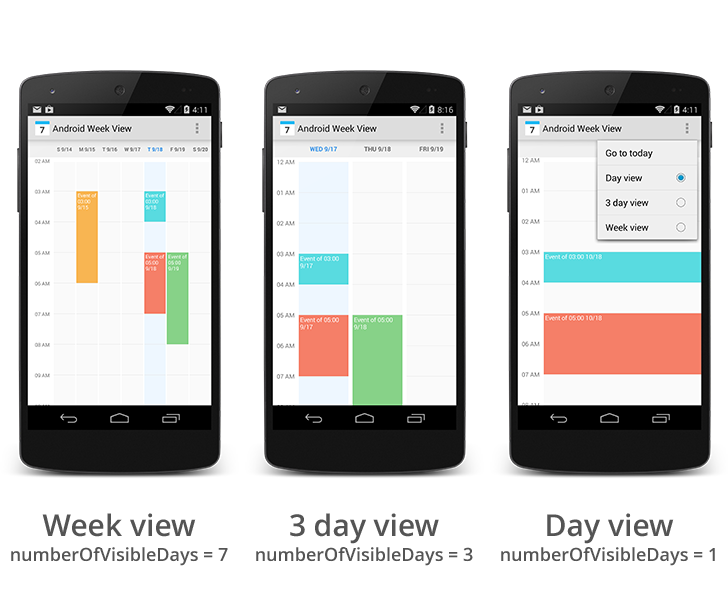
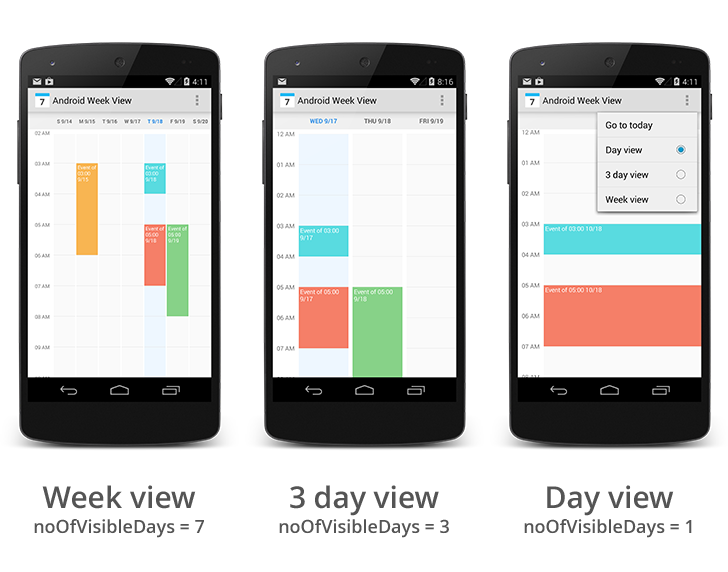
README updated

diff --git a/README.md b/README.md
@@ -1,11 +1,11 @@
 Android Week View
 =================
 
-**Android Week View** is an android library that displays a calendar (week view or day view) within the app. It supports custom styling.
+**Android Week View** is an android library to display calendars (week view or day view) within the app. It supports custom styling.
 
 ![](images/screen-shot.png)
 
-> Please note that this project is still in development. I will be happy if you collaborate in this project and help it become more polished.
+> Please note that this project is still under development. I will be happy if you collaborate in this project and help it become even more polished.
 
 Features
 ------------
@@ -15,7 +15,7 @@ Features
 * Custom styling
 * Horizontal and vertical scrolling
 * Infinite horizontal scrolling
-* Preview customization in xml
+* Live preview of custom styling in xml preview window
 
 Who uses it
 ---------------
@@ -25,7 +25,7 @@ Who uses it
 Usage
 ---------
 
-1. Import the library to your project.
+1. Import the library into your project.
 
 2. Add WeekView in your xml layout.
 
@@ -67,7 +67,7 @@ Usage
 
 4. Implement `WeekView.MonthChangeListener`, `WeekView.EventClickListener`, `WeekView.EventLongPressListener` according to your need.
 
-5. Provide the events of the `WeekView` in `WeekView.MonthChangeListener.onMonthChange()` callback. Please remember that the calendar preloads events of three consecutive months to enable lag-free scrolling.
+5. Provide the events for the `WeekView` in `WeekView.MonthChangeListener.onMonthChange()` callback. Please remember that the calendar preloads events of three consecutive months to enable lag-free scrolling.
 
     ```java
     WeekView.MonthChangeListener mMonthChangeListener = new WeekView.MonthChangeListener() {
@@ -85,29 +85,29 @@ Customization
 
 You can customize the look of the `WeekView` in xml. Use the following attributes in xml. All these attributes also have getters and setters to enable you to change the style dynamically.
 
-- `firstDayOfWeek`  
-- `hourHeight`
-- `textSize`
-- `eventTextSize`
-- `headerColumnPadding`
-- `headerRowPadding`
 - `columnGap`
-- `headerColumnTextColor`
-- `noOfVisibleDays`
-- `headerRowBackgroundColor`
 - `dayBackgroundColor`
+- `eventPadding`
+- `eventTextColor`
+- `eventTextSize`
+- `firstDayOfWeek`
+- `headerColumnBackground`
+- `headerColumnPadding`
+- `headerColumnTextColor`
+- `headerRowBackgroundColor`
+- `headerRowPadding`
+- `hourHeight`
 - `hourSeparatorColor`
+- `hourSeparatorHeight`
+- `noOfVisibleDays`
+- `textSize`
 - `todayBackgroundColor`
 - `todayHeaderTextColor`
-- `hourSeparatorHeight`
-- `eventTextColor`
-- `eventPadding`
-- `headerColumnBackground`
 
 Sample
 ----------
 
-There is also a sample app to get you started. Please check the sample project in the repository.
+There is also a [sample app](https://github.com/alamkanak/Android-Week-View/tree/master/sample) to get you started.
 
 To do
 -------
